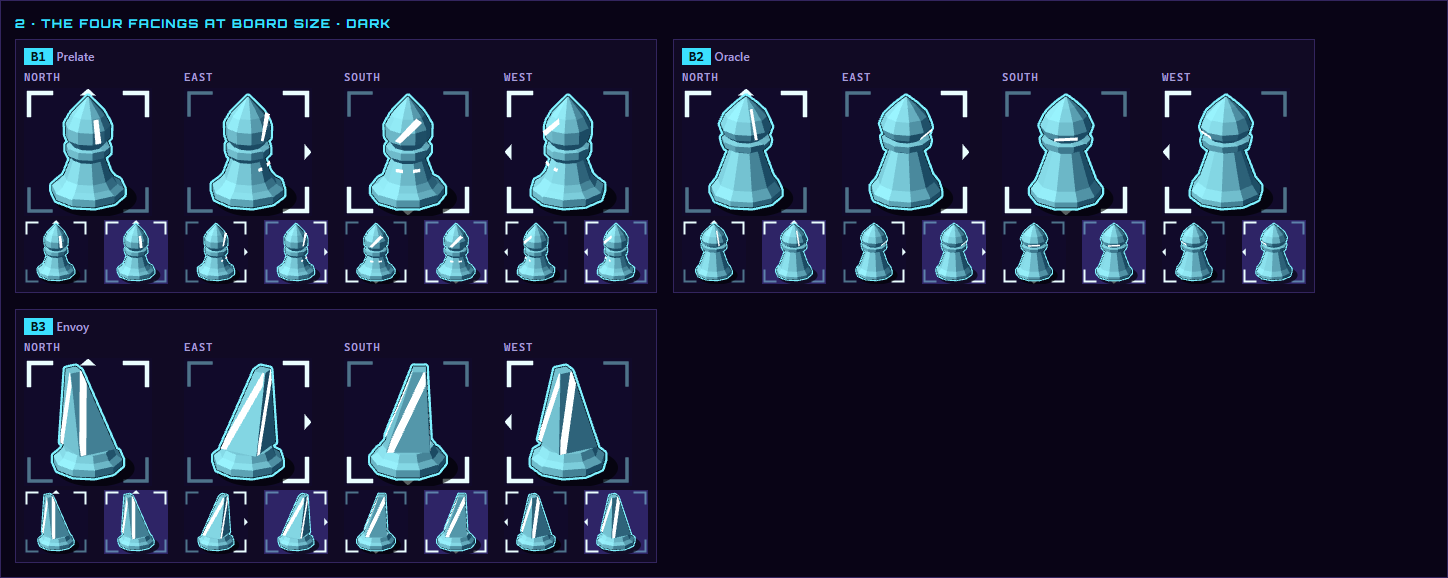
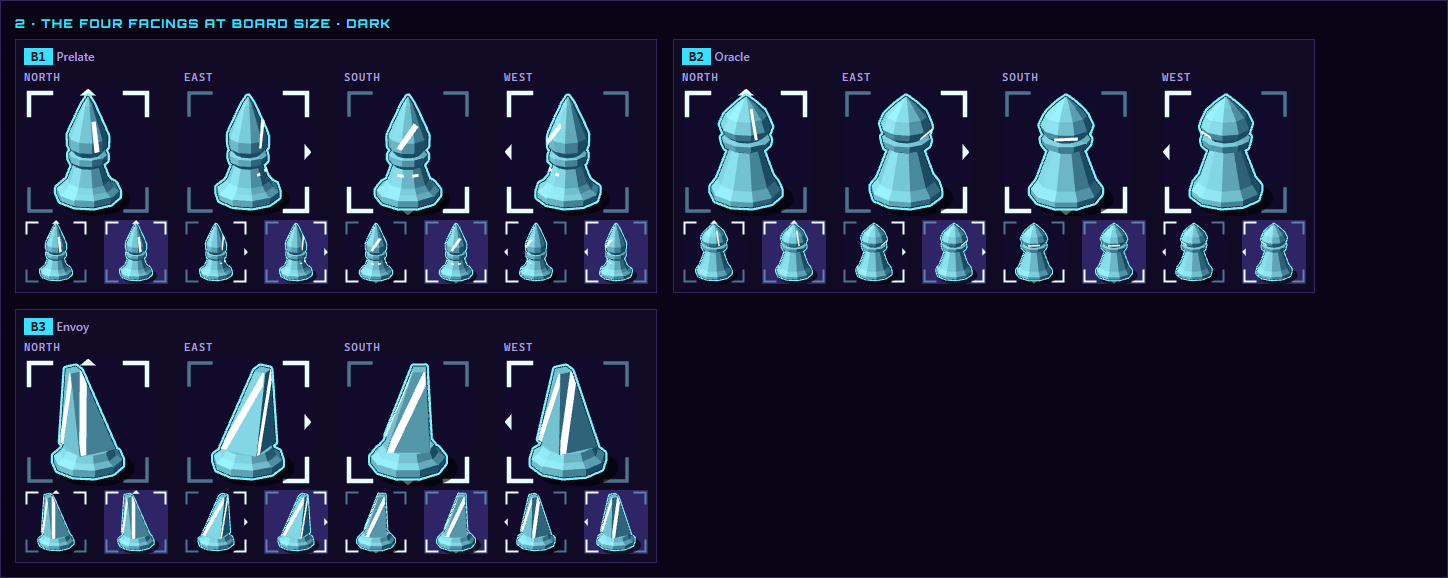
M5.4-D2: the Prelate's mitre made taller and more pointed
Profile 56 -> 66 high; the lit cut and the back ribbon follow it. Sheet re-shot.

Changed region(s): [[0.2486, 0.1557, 0.4351, 0.4983], [0.0311, 0.1557, 0.1554, 0.4983], [0.1243, 0.1557, 0.2175, 0.4983]]

diff --git a/design/bishop.ts b/design/bishop.ts
@@ -50,7 +50,7 @@ function onBody(profile: Profile, quad: Array<[number, number]>, back = false): 
 
 // -- B1 · Prelate: the chess bishop made the hero's -----------------------------------------------------------
 
-const PRELATE: Profile = [[0, 19], [3.5, 19], [6, 15.5], [10, 12.5], [21, 8.6], [24, 11.4], [27.5, 11.4], [28.5, 8], [33, 11.6], [40, 11.8], [46, 8.6], [51, 4.4], [56, 0]];
+const PRELATE: Profile = [[0, 19], [3.5, 19], [6, 15.5], [10, 12.5], [21, 8.6], [24, 11.4], [27.5, 11.4], [28.5, 8], [33, 11.6], [40, 11.8], [47, 9], [54, 6], [61, 3], [66, 0]];
 
 /** The mitre and a collar on the hero's solid body, with the Charger's own base. Faces +z. */
 export function prelateModel(): Model {
@@ -59,10 +59,10 @@ export function prelateModel(): Model {
 
 /** The mitre's slanted cut lit from inside, two lit eyes on the neck, and the ribbon of the mitre down its back. */
 export const prelateLit: Decal[] = [
-  onBody(PRELATE, [[-7, 35.5], [-4, 34], [7.5, 45], [4.5, 47]]),
+  onBody(PRELATE, [[-7, 36.5], [-4, 35], [6.5, 49.5], [3.5, 51.5]]),
   onBody(PRELATE, [[-6.5, 18.5], [-2.6, 18], [-2.6, 16.2], [-6.5, 16.8]]),
   onBody(PRELATE, [[2.6, 18], [6.5, 18.5], [6.5, 16.8], [2.6, 16.2]]),
-  onBody(PRELATE, [[-1.5, 46], [1.5, 46], [1.8, 33], [-1.8, 33]], true),
+  onBody(PRELATE, [[-1.5, 52], [1.5, 52], [1.8, 33], [-1.8, 33]], true),
 ];
 
 // -- B2 · Oracle: a hooded figure ------------------------------------------------------------------------------------
